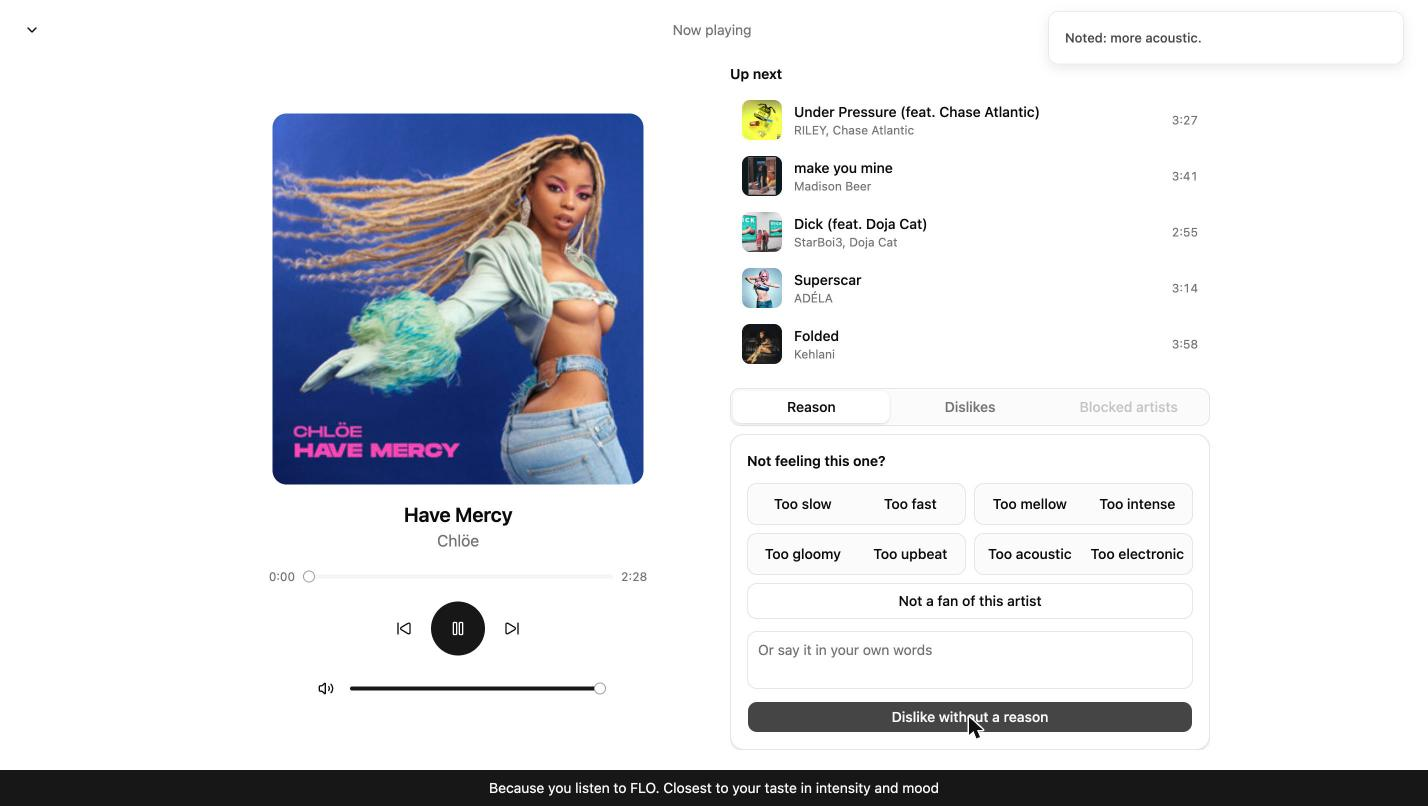
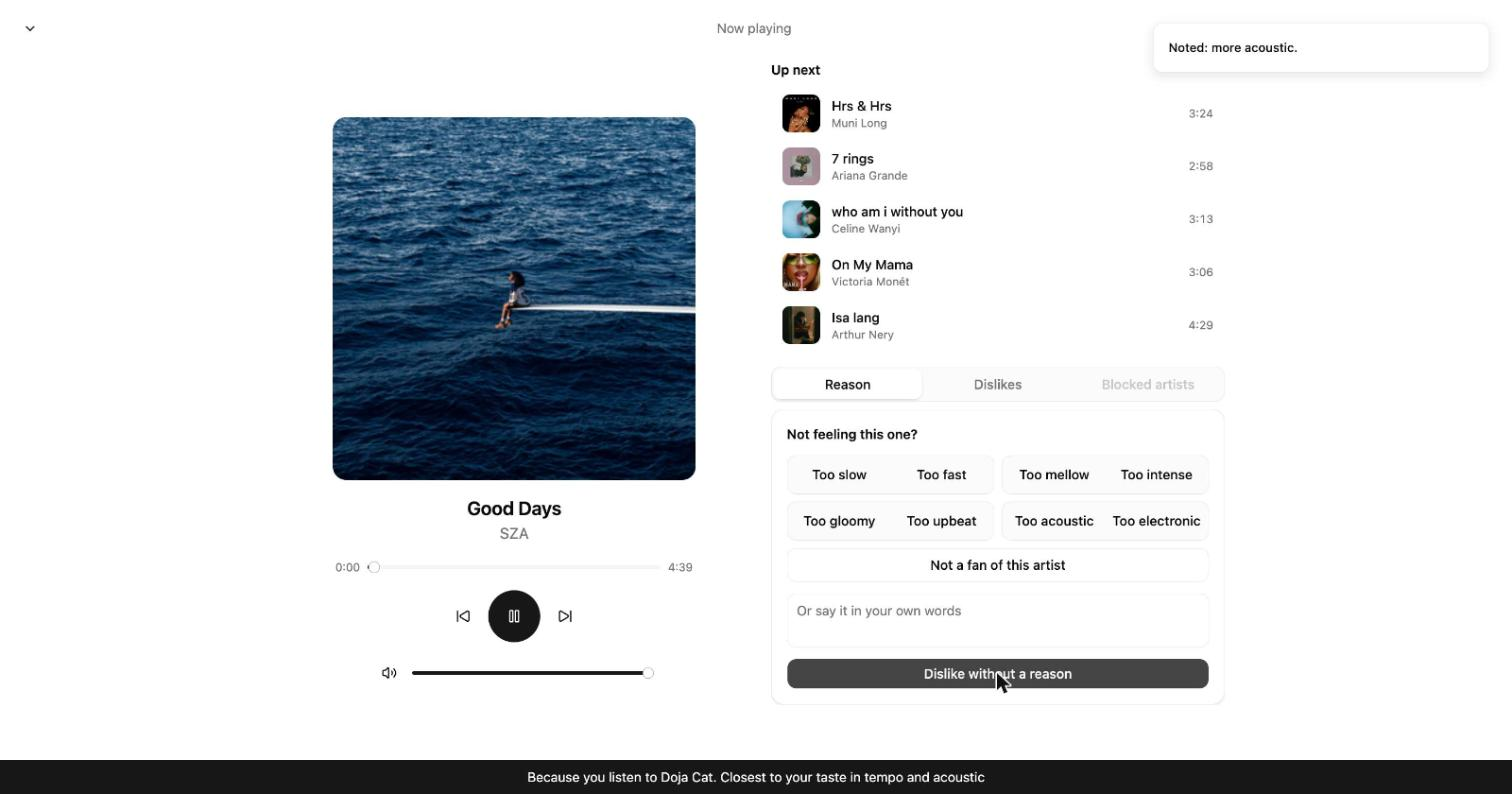
chore: retake report screenshots (#31)
Retakes all 16 report screenshots as one coherent session, using real
clicks so the cursor moves with each action. The bottom of the reason
panel is no longer cut off, the Heard list is fuller, and the covers
shown are cleaner. Also updates CLAUDE.md to use Google Chrome rather
than Dia for UI verification.

The report doc already uses the new figures (4a-c, 6a-c, 8a-c).

🤖 Generated with [Claude Code](https://claude.com/claude-code)

---------

diff --git a/CLAUDE.md b/CLAUDE.md
@@ -16,10 +16,10 @@ Outside `src/`:
 
 ## UI verification
 
-To view and interact with the running app, use the Claude in Chrome tools (`mcp__claude-in-chrome__*`, deferred: load them with one `ToolSearch` call). The user's browser is Dia.
+To view and interact with the running app, use the Claude in Chrome tools (`mcp__claude-in-chrome__*`, deferred: load them with one `ToolSearch` call). Use Google Chrome, not Dia: the extension connects in Dia, but its tab calls (`tabs_context_mcp`, `navigate`) time out.
 
 1. Start the dev server in the background: `npm run dev -- --host 127.0.0.1` (serves `http://127.0.0.1:5173/`).
-2. If `tabs_context_mcp` fails with "No window", run `open -a Dia http://127.0.0.1:5173/` to give Dia a window, then retry with `createIfEmpty: true`.
+2. Run `open -a "Google Chrome" http://127.0.0.1:5173/`, then `list_connected_browsers`. If two browsers are listed and the session is on the wrong one, `select_browser` the newer connection (the one that appeared after Chrome opened) and retry `tabs_context_mcp` with `createIfEmpty: true`. If the dev server's port is already in use, one is already running: reuse it.
 3. Drive the page with `browser_batch` (navigate, click, screenshot, `read_console_messages`).
 4. When done, close the tab with `tabs_close_mcp` and stop the dev server.
 
